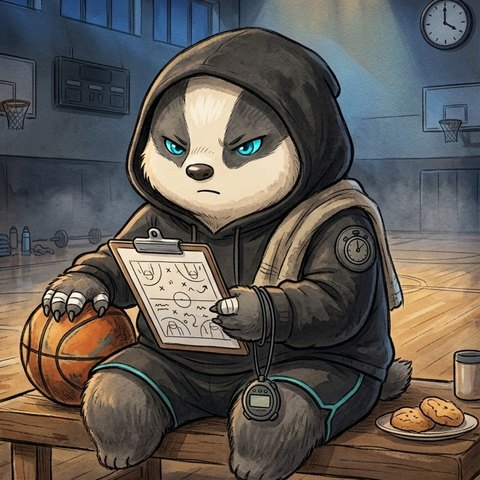
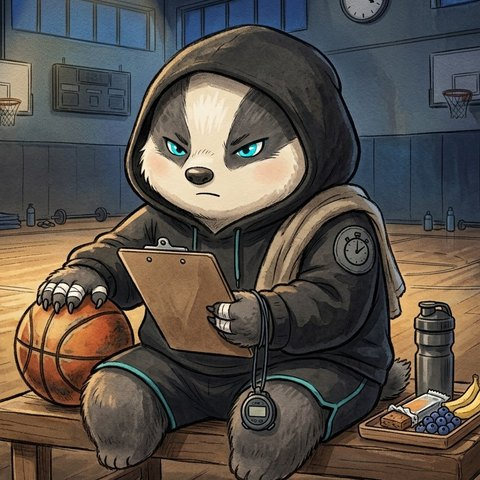
Kobe's portrait: final version (snacks on the bench)

diff --git a/team/kobe/index.html b/team/kobe/index.html
@@ -42,7 +42,7 @@
 <main id="main">
 <section class="hero" style="--c: var(--code); --cb: var(--code-bg)">
   <div class="wrap agent-hero">
-    <img src="/assets/team/kobe.jpg" width="200" height="200" alt="Kobe, drawn as an intense badger in a black hoodie on a bench in an empty gym before dawn, a basketball under one paw and a clipboard of charts in the other" class="round">
+    <img src="/assets/team/kobe.jpg" width="200" height="200" alt="Kobe, drawn as an intense badger in a black hoodie on a bench in an empty gym before dawn, a basketball under one paw, a clipboard in the other, a stopwatch and post-workout snacks beside it" class="round">
     <div>
       <p class="eyebrow"><a href="/team/">The team</a> · Agent</p>
       <h1>Kobe</h1>
